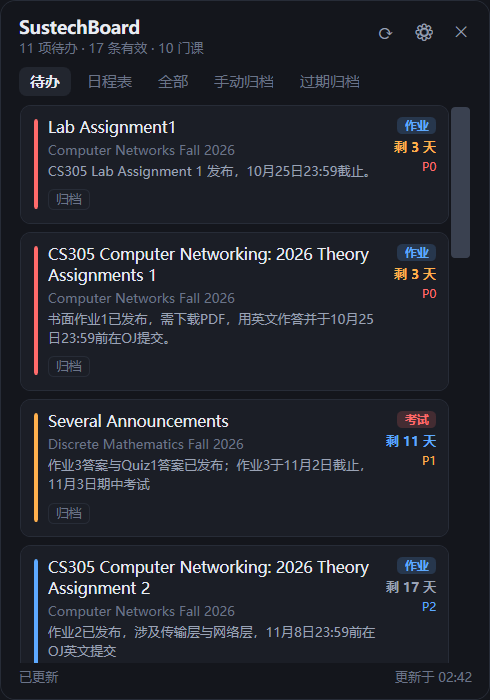
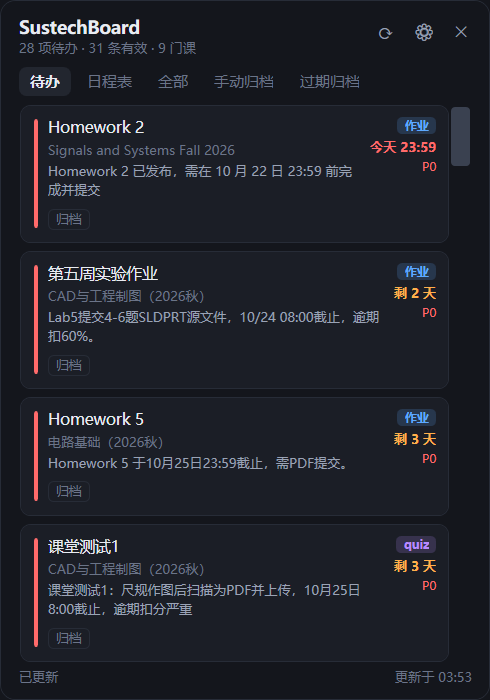
feat: tray entry for full course-structure rescan; refresh panel screenshot

diff --git a/src/SustechBoard.App/App.xaml.cs b/src/SustechBoard.App/App.xaml.cs
@@ -117,6 +117,11 @@ public partial class App : Application
         var menu = new WinForms.ContextMenuStrip { ShowImageMargin = false };
         menu.Items.Add("显示面板", null, (_, _) => ShowPanel());
         menu.Items.Add("立即刷新", null, async (_, _) => await DoSyncAsync(false));
+        menu.Items.Add("重新扫描课程结构", null, async (_, _) =>
+        {
+            _sync?.RequestFullScan();
+            await DoSyncAsync(false);
+        });
         menu.Items.Add("设置", null, (_, _) => OpenSettings());
         menu.Items.Add(new WinForms.ToolStripSeparator());
         menu.Items.Add("退出", null, (_, _) => RequestShutdown());
